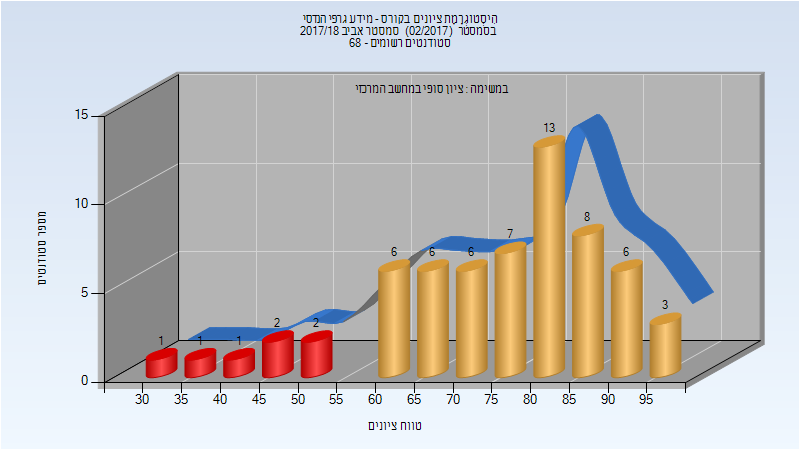
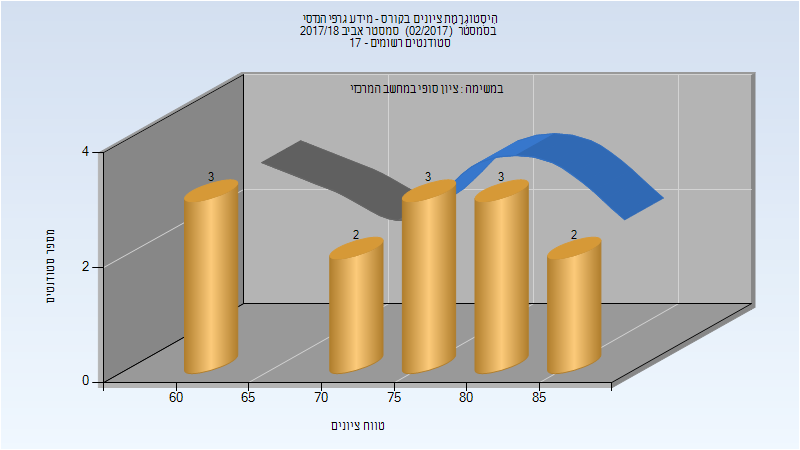
Deploy michael-maltsev/technion-histograms to github.com/michael-maltsev/technion-histograms.git:gh-pages

diff --git a/014008/index.html b/014008/index.html
@@ -726,13 +726,13 @@
 </thead>
 <tbody>
 <tr>
+<td>13</td>
+<td>13/0</td>
+<td>100</td>
 <td>62</td>
-<td>55/7</td>
 <td>89</td>
-<td>34</td>
-<td>99</td>
-<td>74.887</td>
-<td>77</td>
+<td>75.538</td>
+<td>78</td>
 </tr>
 </tbody>
 </table>

diff --git a/014008/README.md b/014008/README.md
@@ -227,7 +227,7 @@
 
 | סטודנטים | עברו/נכשלו | אחוז עוברים | ציון מינימלי | ציון מקסימלי | ממוצע | חציון |
 | ---- | ---- | ---- | ---- | ---- | ---- | ---- |
-| 62 | 55/7 | 89 | 34 | 99 | 74.887 | 77 |
+| 13 | 13/0 | 100 | 62 | 89 | 75.538 | 78 |
 
 ## חורף 2018-2019
 
